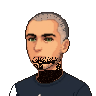
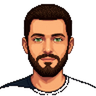
fix(ch5): genera bust desde cero con forge (barba nativa) — reemplaza versión pintada
Rafael: "hazlo desde cero, no aumentes la barba luego eres malo en eso".
Editar/pintar barba a mano daba resultados pobres; ahora el bust completo se
genera con forge_sprite con la barba incluida nativamente.

iter21: mismo hombre que ch3 pero pelo corto denso + barba, todo generado.
Castaño oscuro (cero gris/calvicie), ojos sage definidos, barba natural con punta,
piel peach, camisa navy, estilo de ch3. bg lava+floodfill, 0 px cyan, transparente,
96px LANCZOS. Validado con checkerboard (ojos OK) + app. Versión pintada en old/.

diff --git a/public/assets/old/CHANGELOG.md b/public/assets/old/CHANGELOG.md
@@ -568,3 +568,10 @@ Aplica colectivamente a los 4 assets parallax originales de ch4 (Plan 04-04 W2).
 - **Razón del cambio:** Rafael: "ch5 está roto, no puedes presentar una imagen rota, hazla de nuevo". La iter19 tenía los OJOS destruidos (cuencas negras) por las pasadas de recolor agresivas, y la barba quedó como blob negro tipo máscara. Inspección con checkerboard lo confirmó.
 - **Qué se hizo:** Rehecho LIMPIO desde ch2-bust.png. (1) Pelo gris→castaño por saturación (los ojos sage tienen sat alta → protegidos, NO se tocan). (2) Barba pintada con DENSIDAD tipo stubble (textura dispersa pseudo-aleatoria, más densa hacia el mentón, borde superior suave) siguiendo la mandíbula real de ch2, dejando boca y ojos intactos — natural, no blob. Color barba de ch3 (#0D0201..#2A1810). Sin pasadas destructivas posteriores. Validado en app (StickyAvatar): pelo oscuro, ojos sage intactos, barba natural, transparente.
 - **Commit hash del cambio:** `0b1592b`
+
+## ch5-bust.png — iter20 → iter21 (2026-06-01, generado desde cero)
+
+- **Versión guardada:** `old/ch5-bust-2026-06-01-iter20-painted-beard.png` (commit `a67857d`)
+- **Razón del cambio:** Rafael: "sigue mal, hazlo desde cero, no aumentes la barba luego eres malo en eso". Pintar/editar la barba a mano daba resultados pobres (stubble irreal, eyes rotos en iter19). Decisión: GENERAR el bust completo con la barba incluida nativamente (como los busts originales), no editar.
+- **Qué se hizo:** forge_sprite desde cero (artist-creator). Mismo hombre que ch3 pero pelo CORTO denso + barba, todo generado. Pelo castaño oscuro #251109 (cero gris/calvicie), barba castaño oscuro natural con punta, ojos sage definidos, piel peach, camisa navy, estilo/encuadre de ch3. bg "lava" + flood-fill, 0 píxeles cyan, esquinas sup transparentes. Downscale PIL LANCZOS a 96. Validado con checkerboard (ojos OK, no roto) + render en app (StickyAvatar).
+- **Commit hash del cambio:** `d7cfe5d`
